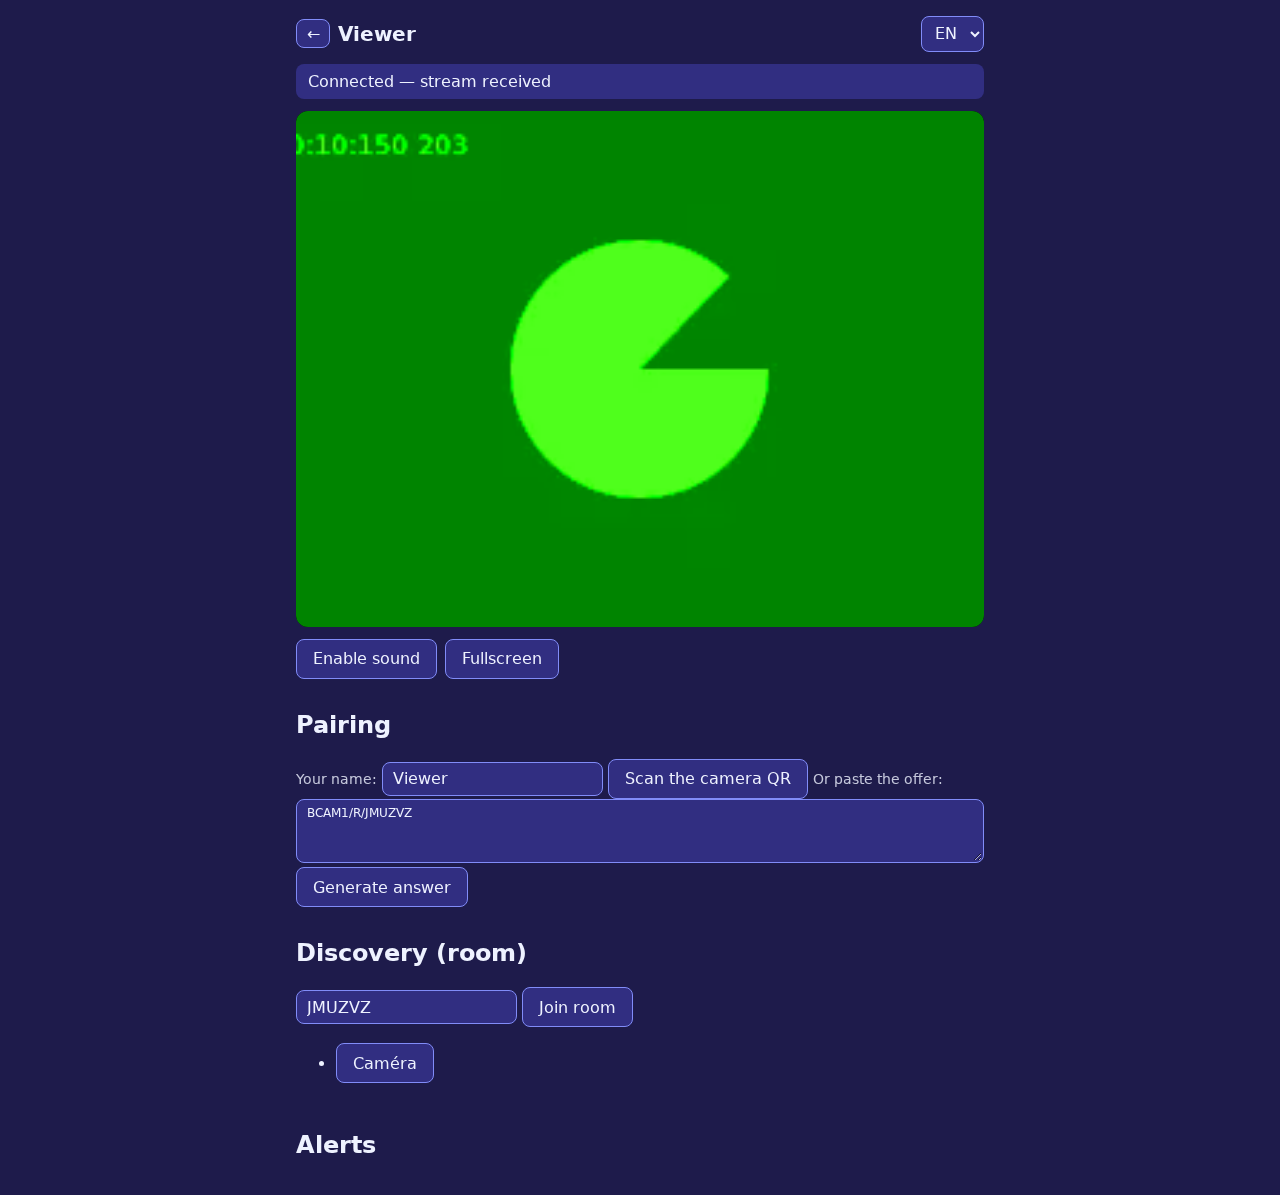
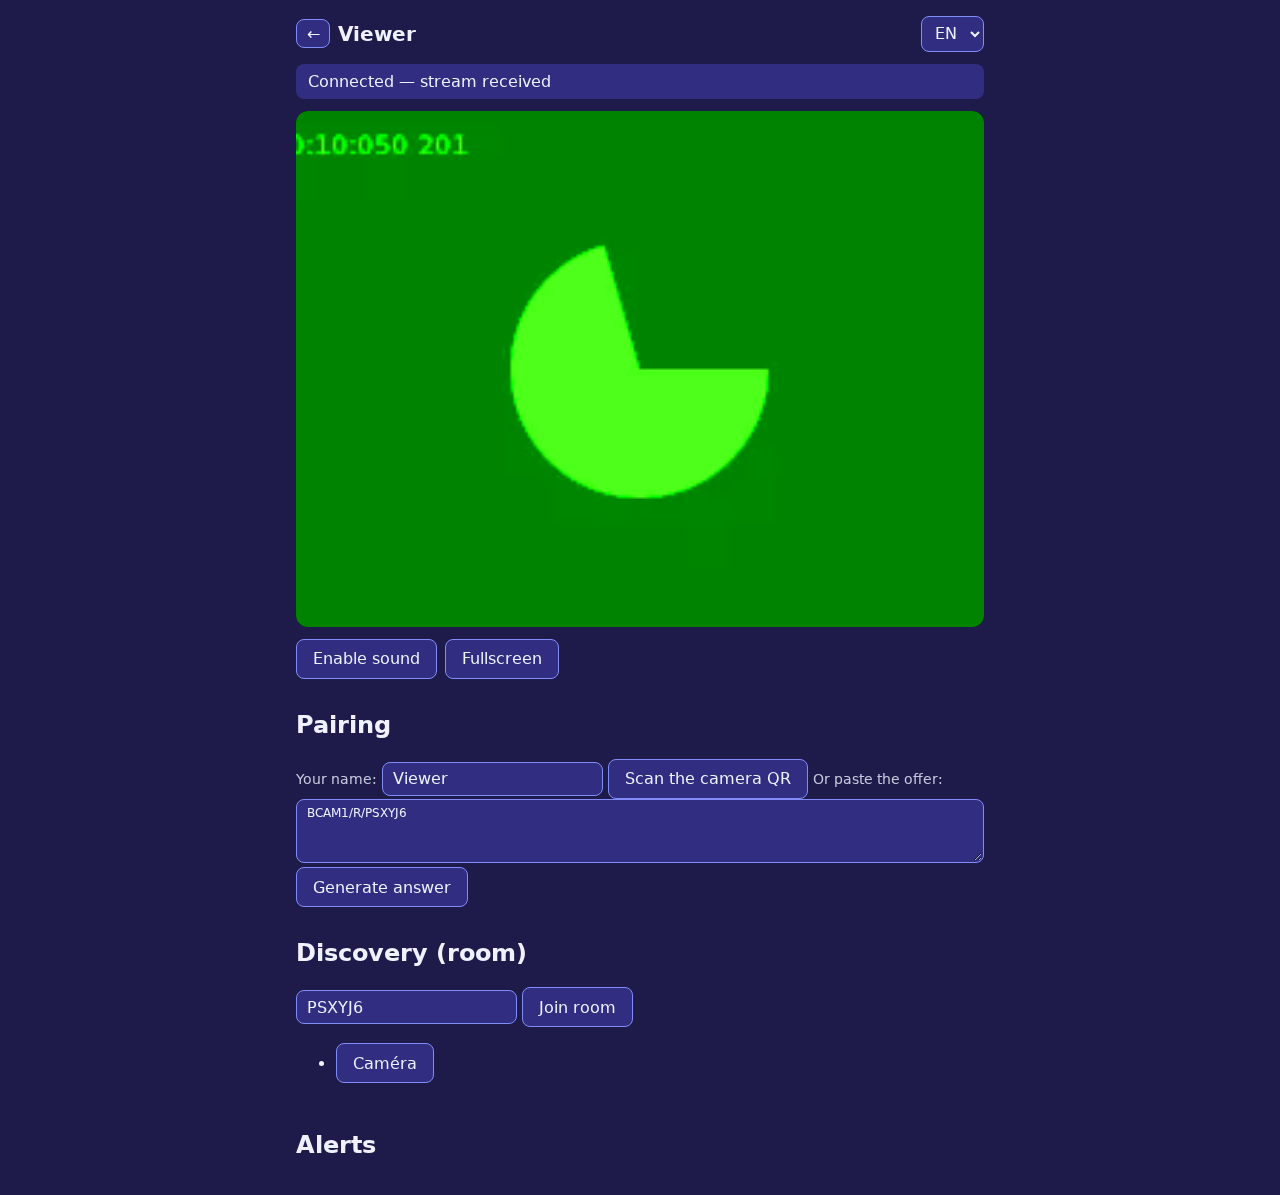
feat(I3.3+): QR sans relais allégé au maximum (mungeSdpAggressive : 1 codec vidéo choisi + opus seul, extmap supprimés) + tests unitaires/E2E sur le contenu du QR

Changed region(s): [[0.4688, 0.1858, 0.5625, 0.3096], [0.25, 0.836, 0.2812, 0.8669]]

diff --git a/src/shared/sdp.ts b/src/shared/sdp.ts
@@ -1,44 +1,64 @@
-export function filterSdpByVideoCodec(sdp: string, mimeType: string): string {
-  const wanted = mimeType.toLowerCase().replace(/^video\//, '');
+export interface MungeOptions {
+  videoMime?: string;
+  audioMime?: string;
+  dropExtmap?: boolean;
+}
+
+function sectionOf(line: string): string {
+  return line.slice(2).split(' ')[0];
+}
+
+export function mungeSdp(sdp: string, opts: MungeOptions): string {
   const lines = sdp.split('\r\n');
-  const videoPts = new Set<number>();
-  let inVideo = false;
+  const kept = new Map<string, Set<number>>();
+  let section = '';
   for (const line of lines) {
     if (line.startsWith('m=')) {
-      inVideo = line.startsWith('m=video');
+      section = sectionOf(line);
+      kept.set(section, new Set());
       continue;
     }
-    if (inVideo && line.startsWith('a=rtpmap:')) {
-      const m = /^a=rtpmap:(\d+) ([^/]+)/.exec(line);
-      if (m && m[2].toLowerCase() === wanted) videoPts.add(Number(m[1]));
-    }
+    if (!line.startsWith('a=rtpmap:')) continue;
+    const m = /^a=rtpmap:(\d+) ([^/\s]+)/.exec(line);
+    if (!m) continue;
+    const mime = `${section}/${m[2].toLowerCase()}`;
+    const want =
+      (section === 'video' && opts.videoMime !== undefined && mime === opts.videoMime.toLowerCase()) ||
+      (section === 'audio' && opts.audioMime !== undefined && mime === opts.audioMime.toLowerCase());
+    if (want) kept.get(section)!.add(Number(m[1]));
   }
-  if (videoPts.size === 0) return sdp;
 
   const out: string[] = [];
-  inVideo = false;
+  section = '';
   for (const line of lines) {
     if (line.startsWith('m=')) {
-      if (line.startsWith('m=video')) {
+      section = sectionOf(line);
+      const pts = kept.get(section);
+      if (pts && pts.size > 0) {
         const parts = line.slice(2).split(' ');
         const header = parts.slice(0, 3).join(' ');
-        const pts = parts.slice(3).filter((p) => videoPts.has(Number(p)));
-        out.push(`m=${header} ${pts.join(' ')}`);
-        inVideo = true;
+        const keptPts = parts.slice(3).filter((p) => pts.has(Number(p)));
+        out.push(`m=${header} ${keptPts.join(' ')}`);
       } else {
         out.push(line);
-        inVideo = false;
       }
       continue;
     }
-    if (inVideo) {
-      const codecAttr = /^(a=(?:rtpmap|fmtp|rtcp-fb)):(\d+)/.exec(line);
-      if (codecAttr) {
-        if (videoPts.has(Number(codecAttr[2]))) out.push(line);
-        continue;
-      }
+    if (opts.dropExtmap && line.startsWith('a=extmap:')) continue;
+    const codecAttr = /^(a=(?:rtpmap|fmtp|rtcp-fb)):(\d+)/.exec(line);
+    if (codecAttr) {
+      const pts = kept.get(section);
+      if (pts && pts.size > 0 && !pts.has(Number(codecAttr[2]))) continue;
     }
     out.push(line);
   }
   return out.join('\r\n');
+}
+
+export function filterSdpByVideoCodec(sdp: string, mimeType: string): string {
+  return mungeSdp(sdp, { videoMime: mimeType });
+}
+
+export function mungeSdpAggressive(sdp: string, videoMime?: string): string {
+  return mungeSdp(sdp, { videoMime, audioMime: 'audio/opus', dropExtmap: true });
 }

diff --git a/src/shared/sdp.test.ts b/src/shared/sdp.test.ts
@@ -1,5 +1,5 @@
 import { describe, expect, it } from 'vitest';
-import { filterSdpByVideoCodec } from './sdp';
+import { filterSdpByVideoCodec, mungeSdpAggressive } from './sdp';
 
 const SDP = [
   'v=0',
@@ -48,5 +48,50 @@ describe('filterSdpByVideoCodec', () => {
     const out = filterSdpByVideoCodec(SDP, 'VIDEO/vp8');
     expect(out).toContain('a=rtpmap:96 VP8/90000');
     expect(out).not.toContain('H264');
+  });
+});
+
+const SDP_FULL = [
+  'v=0',
+  'm=audio 9 UDP/TLS/RTP/SAVPF 111 0 8',
+  'a=rtpmap:111 opus/48000/2',
+  'a=rtpmap:0 PCMU/8000',
+  'a=rtpmap:8 PCMA/8000',
+  'a=extmap:1 urn:ietf:params:rtp-hdrext:ssrc-audio-level',
+  'm=video 9 UDP/TLS/RTP/SAVPF 96 97 98 99',
+  'a=rtpmap:96 VP8/90000',
+  'a=rtpmap:97 H264/90000',
+  'a=rtpmap:98 VP9/90000',
+  'a=rtpmap:99 rtx/90000',
+  'a=fmtp:99 apt=96',
+  'a=extmap:3 http://www.webrtc.org/experiments/rtp-hdrext/abs-send-time',
+  'a=mid:0',
+  'a=ssrc:1001 cname:abc',
+  'a=ice-ufrag:xyz',
+].join('\r\n');
+
+describe('mungeSdpAggressive (QR sans relais)', () => {
+  it('ne garde que le codec vidéo choisi et opus en audio, et supprime les extmap', () => {
+    const out = mungeSdpAggressive(SDP_FULL, 'video/VP8');
+    const mVideo = out.split('\r\n').find((l) => l.startsWith('m=video'))!;
+    expect(mVideo).toBe('m=video 9 UDP/TLS/RTP/SAVPF 96');
+    const mAudio = out.split('\r\n').find((l) => l.startsWith('m=audio'))!;
+    expect(mAudio).toBe('m=audio 9 UDP/TLS/RTP/SAVPF 111');
+    expect(out).toContain('a=rtpmap:111 opus/48000/2');
+    expect(out).not.toContain('PCMU');
+    expect(out).not.toContain('H264');
+    expect(out).not.toContain('VP9');
+    expect(out).not.toContain('rtx');
+    expect(out).not.toContain('a=extmap:');
+    expect(out).toContain('a=mid:0');
+    expect(out).toContain('a=ssrc:1001 cname:abc');
+    expect(out).toContain('a=ice-ufrag:xyz');
+  });
+
+  it('garde toute la section vidéo si le codec demandé est absent', () => {
+    const out = mungeSdpAggressive(SDP_FULL, 'video/AV1');
+    const mVideo = out.split('\r\n').find((l) => l.startsWith('m=video'))!;
+    expect(mVideo).toBe('m=video 9 UDP/TLS/RTP/SAVPF 96 97 98 99');
+    expect(out).not.toContain('a=extmap:');
   });
 });

diff --git a/src/shared/webrtc.ts b/src/shared/webrtc.ts
@@ -1,5 +1,5 @@
 import type { SignalMessage } from './signaling';
-import { filterSdpByVideoCodec } from './sdp';
+import { filterSdpByVideoCodec, mungeSdpAggressive } from './sdp';
 
 export function iceServersFromLocation(): RTCIceServer[] {
   const params = new URLSearchParams(location.search);
@@ -67,9 +67,12 @@ export interface PeerManagerOptions {
   onCandidate?: (peerId: string, candidate: RTCIceCandidateInit) => void;
   onRenegotiate?: (peerId: string, msg: SignalMessage) => void;
   getVideoCodec?: () => string | undefined;
+  aggressiveMunge?: boolean;
 }
 
-function mungeSdp(sdp: string, codec: string | undefined): string {
+function mungeSdp(sdp: string, opts: PeerManagerOptions): string {
+  const codec = opts.getVideoCodec?.();
+  if (opts.aggressiveMunge) return mungeSdpAggressive(sdp, codec);
   return codec ? filterSdpByVideoCodec(sdp, codec) : sdp;
 }
 
@@ -115,7 +118,7 @@ export class CameraPeers {
     for (const track of this.stream.getTracks()) pc.addTrack(track, this.stream);
     await pc.setLocalDescription(await pc.createOffer());
     if (!this.opts.trickle) await waitIceComplete(pc, 4000);
-    const sdp = mungeSdp(pc.localDescription!.sdp, this.opts.getVideoCodec?.());
+    const sdp = mungeSdp(pc.localDescription!.sdp, this.opts);
     return { id, msg: { v: 1, t: 'offer', sdp } };
   }
 
@@ -128,7 +131,7 @@ export class CameraPeers {
     entry.pc.restartIce();
     await entry.pc.setLocalDescription(await entry.pc.createOffer());
     await waitIceComplete(entry.pc, 4000);
-    const sdp = mungeSdp(entry.pc.localDescription!.sdp, this.opts.getVideoCodec?.());
+    const sdp = mungeSdp(entry.pc.localDescription!.sdp, this.opts);
     this.opts.onRenegotiate(id, { v: 1, t: 'offer', sdp });
   }
 

diff --git a/e2e/qr.spec.ts b/e2e/qr.spec.ts
@@ -1,6 +1,6 @@
 import { expect, test } from '@playwright/test';
 import jsQR from 'jsqr';
-import { toQrChunks } from '../src/shared/signaling';
+import { decodeMessage, toQrChunks } from '../src/shared/signaling';
 import { debugParams, shot } from './helpers';
 import { killMockRelay, startMockRelay } from './mock-relay';
 
@@ -36,6 +36,17 @@ test('QR d offre : UN seul QR en mode LAN (sans STUN), décodable et identique a
 
   const qrText = await decodeCanvas(page, '#qr-canvas');
   expect(qrText).toBe(chunks[0]);
+
+  const codec = await page.locator('#video-codec').inputValue();
+  const msg = decodeMessage(payload);
+  const lines = msg.sdp.split('\r\n');
+  const mVideo = lines.find((l) => l.startsWith('m=video'))!;
+  expect(mVideo.split(' ').slice(3)).toHaveLength(1);
+  expect(msg.sdp).toContain(codec.split('/')[1]);
+  const mAudio = lines.find((l) => l.startsWith('m=audio'))!;
+  expect(mAudio.split(' ').slice(3)).toHaveLength(1);
+  expect(msg.sdp).toContain('opus');
+  expect(msg.sdp).not.toContain('a=extmap:');
 
   await shot(page, 'I3.2-camera-qr-single');
 });

diff --git a/src/pages/camera/main.ts b/src/pages/camera/main.ts
@@ -191,10 +191,11 @@ function renderViewers(): void {
   }
 }
 
-function ensurePeers(iceServers: RTCIceServer[]): CameraPeers {
+function ensurePeers(iceServers: RTCIceServer[], aggressiveMunge = false): CameraPeers {
   if (!peers) {
     peers = new CameraPeers(stream!, iceServers, {
       getVideoCodec: () => currentVideoCodec,
+      aggressiveMunge,
       onRenegotiate: (id, msg) => {
         const from = relayFromByPeer.get(id);
         if (relay && from) {
@@ -239,7 +240,7 @@ pairBtn.addEventListener('click', async () => {
     }
     return;
   }
-  const { id, msg } = await ensurePeers([]).createOffer();
+  const { id, msg } = await ensurePeers([], true).createOffer();
   pendingPeerId = id;
   const message = encodeMessage(msg);
   offerPayload.value = message;

diff --git a/docs/plan.md b/docs/plan.md
@@ -215,7 +215,7 @@ Chaque incrément est petit, testé (unitaires vitest, plus E2E Playwright quand
 ### Phase 3 — optionnel
 - I3.1 : **reconnexion automatique** — `restartIce()` + ré-offre côté caméra (via relais auto, ou QR à re-scanner), reconnexion WS du relais avec backoff + re-join + ré-annonce de présence, re-request viewer sur `disconnected`/`failed` ; E2E : coupure réseau simulée (`setOffline`) et redémarrage du relais.
 - I3.2 : **appairage QR simplifié (réseau local)** — mode QR sans STUN (`iceServers: []`) → SDP compact → **un seul QR** offre et réponse (chunk 4200, carrousel en fallback), la caméra **scanne la réponse avec la caméra frontale** (plus de copier-coller), copier-coller en secours ; E2E : un seul chunk + QR décodé identique au payload.
-- I3.3 : **QR = code de salon (option A)** — si un relais est configuré (`?relay=` ou `DEFAULT_RELAY_URL`), le QR d'appairage ne contient que `BCAM1/R/CODE` (QR minuscule v1-2) et le SDP passe par le relais ; sinon fallback QR SDP (I3.2). **Liste déroulante codec vidéo** (défaut = premier codec du navigateur, persisté) avec filtrage du SDP (`filterSdpByVideoCodec`, tests unitaires) ; E2E : QR salon décodé + appairage complet via relais, persistance du codec.
+- I3.3 : **QR = code de salon (option A)** — si un relais est configuré (`?relay=` ou `DEFAULT_RELAY_URL`), le QR d'appairage ne contient que `BCAM1/R/CODE` (QR minuscule v1-2) et le SDP passe par le relais ; sinon fallback QR SDP (I3.2) **allégé au maximum** (`mungeSdpAggressive` : un seul codec vidéo choisi + opus seul en audio, extmap supprimés → QR ~v15-17). **Liste déroulante codec vidéo** (défaut = premier codec du navigateur, persisté) ; E2E : QR salon décodé + appairage complet via relais, persistance du codec, contenu du QR sans relais = 1 seul PT vidéo + opus + pas d'extmap.
 - Notifications push (hors 100 % statique), enregistrement d'extraits sur alerte, audio bidirectionnel, zone d'intérêt pour le mouvement.
 
 ## 14. Tests
